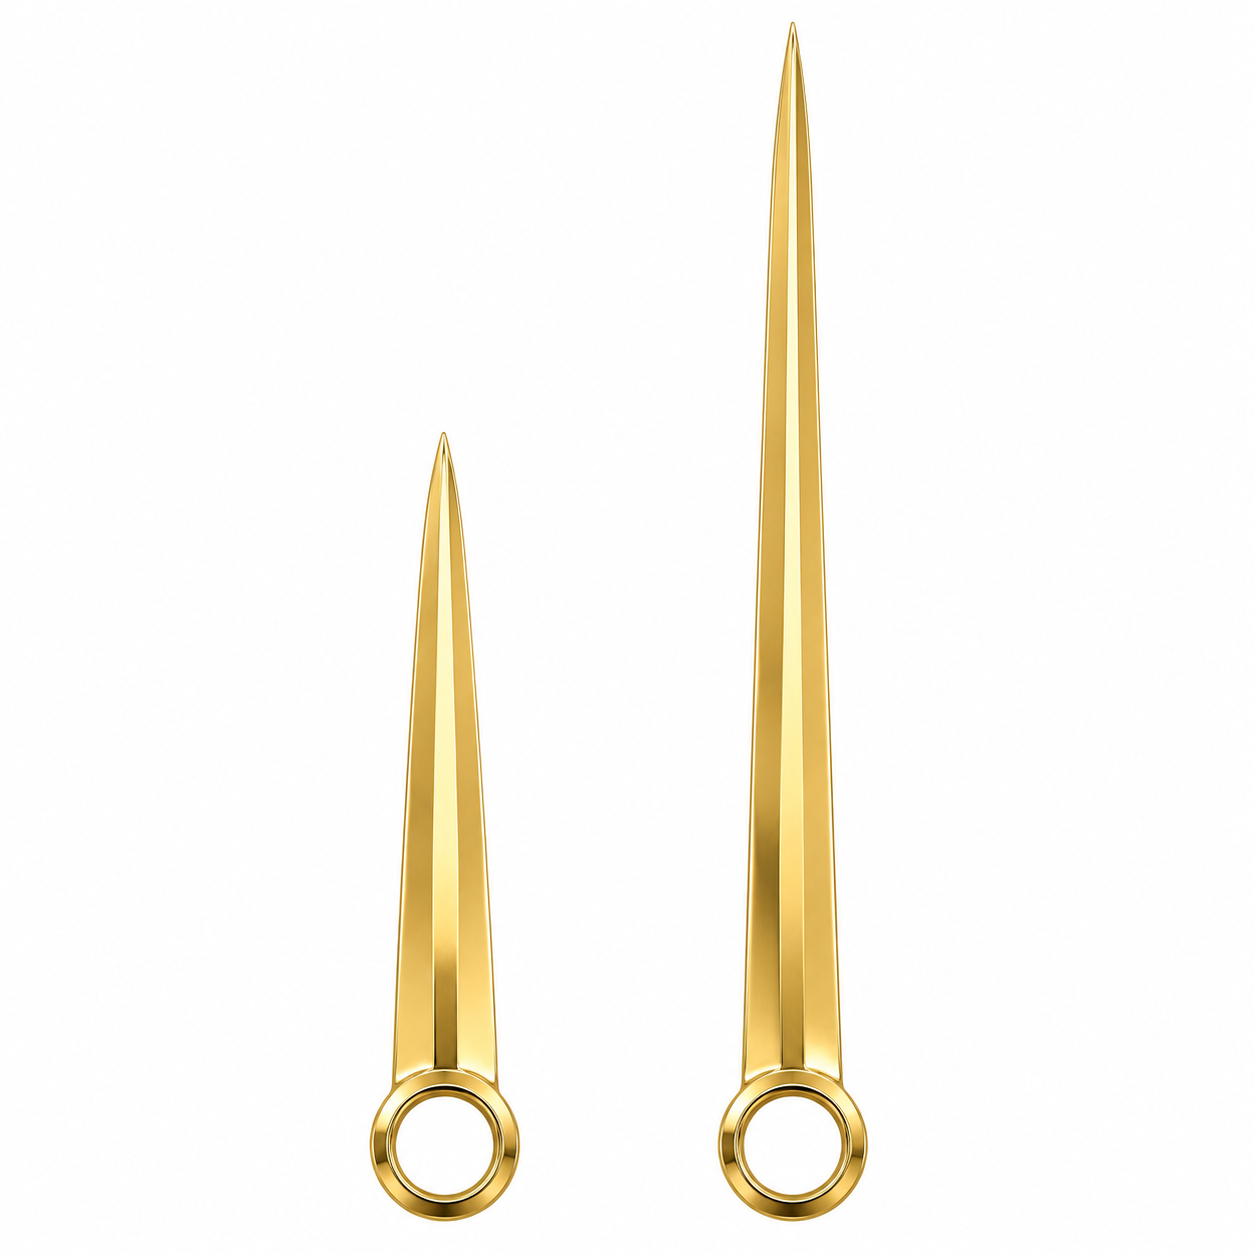
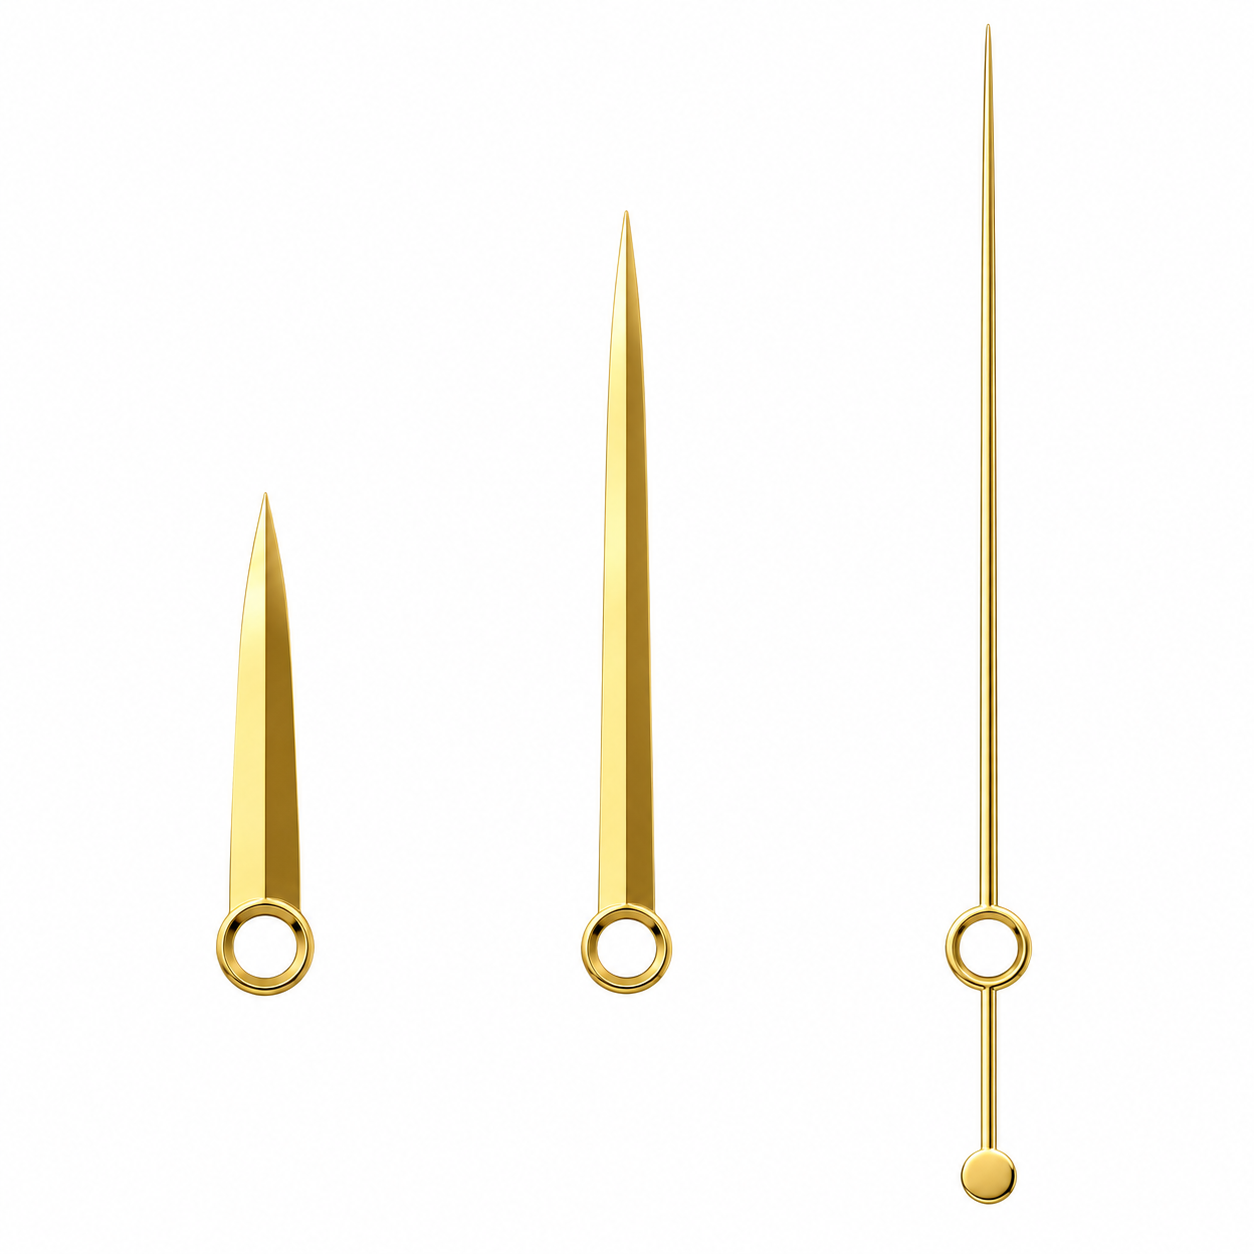
Lunetta: lancette nuove con i secondi veri e il contrappeso
Claude-Session: https://claude.ai/code/session_01NCWZ2EgAfWjoZpzfAus64N

diff --git a/src/components/ContactBezel.tsx b/src/components/ContactBezel.tsx
@@ -25,7 +25,7 @@ export default function ContactBezel() {
   const [nudge, setNudge] = useState(false);
   const hourHand = useRef<HTMLImageElement>(null);
   const minuteHand = useRef<HTMLImageElement>(null);
-  const secondHand = useRef<SVGGElement>(null);
+  const secondHand = useRef<HTMLImageElement>(null);
 
   useEffect(() => setOpen(false), [pathname]);
 
@@ -45,7 +45,7 @@ export default function ContactBezel() {
         const hr = (now.getHours() % 12) + min / 60;
         if (hourHand.current) hourHand.current.style.transform = `rotate(${hr * 30}deg)`;
         if (minuteHand.current) minuteHand.current.style.transform = `rotate(${min * 6}deg)`;
-        secondHand.current?.setAttribute("transform", `rotate(${sec * 6})`);
+        if (secondHand.current) secondHand.current.style.transform = `rotate(${sec * 6}deg)`;
       }
       raf = requestAnimationFrame(tick);
     };
@@ -162,28 +162,16 @@ export default function ContactBezel() {
           {/* quadrante soleil, fermo, sotto la ghiera */}
           {/* eslint-disable-next-line @next/next/no-img-element */}
           <img src="/lunetta/quadrante.webp" alt="" draggable={false} className="absolute inset-[12.8%] h-[74.4%] w-[74.4%] rounded-full" />
-          {/* lancette vere sopra il quadrante (immagini con il perno al centro, a mezzogiorno) */}
+          {/* lancette vere sopra il quadrante (immagini quadrate con il perno al centro, a mezzogiorno) */}
           <span className="bezel-hands absolute inset-[12.8%]">
             {/* eslint-disable-next-line @next/next/no-img-element */}
             <img ref={hourHand} src="/lunetta/ore.webp" alt="" draggable={false} className="absolute inset-0 h-full w-full" />
             {/* eslint-disable-next-line @next/next/no-img-element */}
             <img ref={minuteHand} src="/lunetta/minuti.webp" alt="" draggable={false} className="absolute inset-0 h-full w-full" />
-            <svg viewBox="-1 -1 2 2" className="absolute inset-0 h-full w-full overflow-visible">
-              <defs>
-                <linearGradient id="bz-gold" x1="0" x2="1">
-                  <stop offset="0" stopColor="#b88a35" />
-                  <stop offset=".5" stopColor="#fbe7ad" />
-                  <stop offset="1" stopColor="#a67b2c" />
-                </linearGradient>
-              </defs>
-              {/* secondi: ago sottile in oro con il contrappeso */}
-              <g ref={secondHand}>
-                <rect x="-.011" y="-.93" width=".022" height="1.15" fill="url(#bz-gold)" />
-                <circle cy=".15" r=".045" fill="url(#bz-gold)" />
-              </g>
-              <circle r=".055" fill="url(#bz-gold)" stroke="rgba(0,0,0,.35)" strokeWidth=".01" />
-              <circle r=".018" fill="#5e451a" />
-            </svg>
+            {/* eslint-disable-next-line @next/next/no-img-element */}
+            <img ref={secondHand} src="/lunetta/secondi.webp" alt="" draggable={false} className="absolute inset-0 h-full w-full" />
+            {/* rubino al centro del perno */}
+            <span className="absolute left-1/2 top-1/2 h-[5%] w-[5%] -translate-x-1/2 -translate-y-1/2 rounded-full bg-[radial-gradient(circle_at_35%_35%,#fbe7ad,#a67b2c)]" />
           </span>
           {/* ghiera girevole con il bordo zigrinato e il triangolo luminoso */}
           <span className="bezel-ring absolute inset-0">

diff --git a/src/app/globals.css b/src/app/globals.css
@@ -454,9 +454,6 @@ html[data-intro="seen"] .intro-splash {
 .bezel-hands img {
   filter: drop-shadow(0 1px 1px rgb(0 0 0 / 0.55));
 }
-.bezel-hands svg {
-  filter: drop-shadow(0 0.5px 0.6px rgb(0 0 0 / 0.6));
-}
 
 .bezel-item {
   position: absolute;
